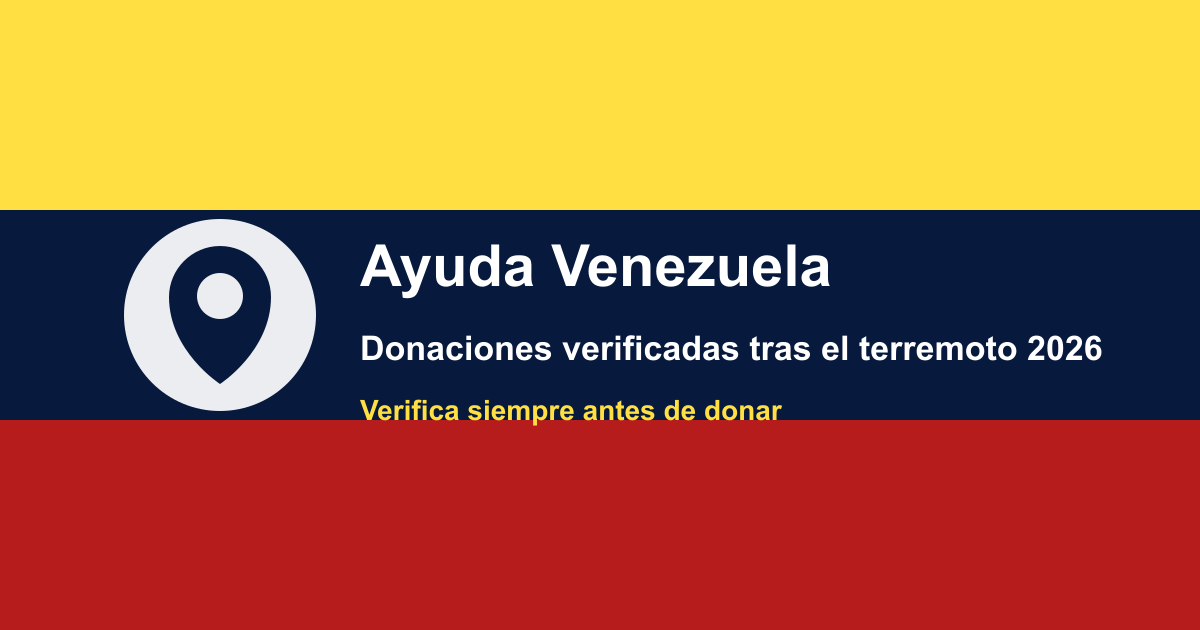
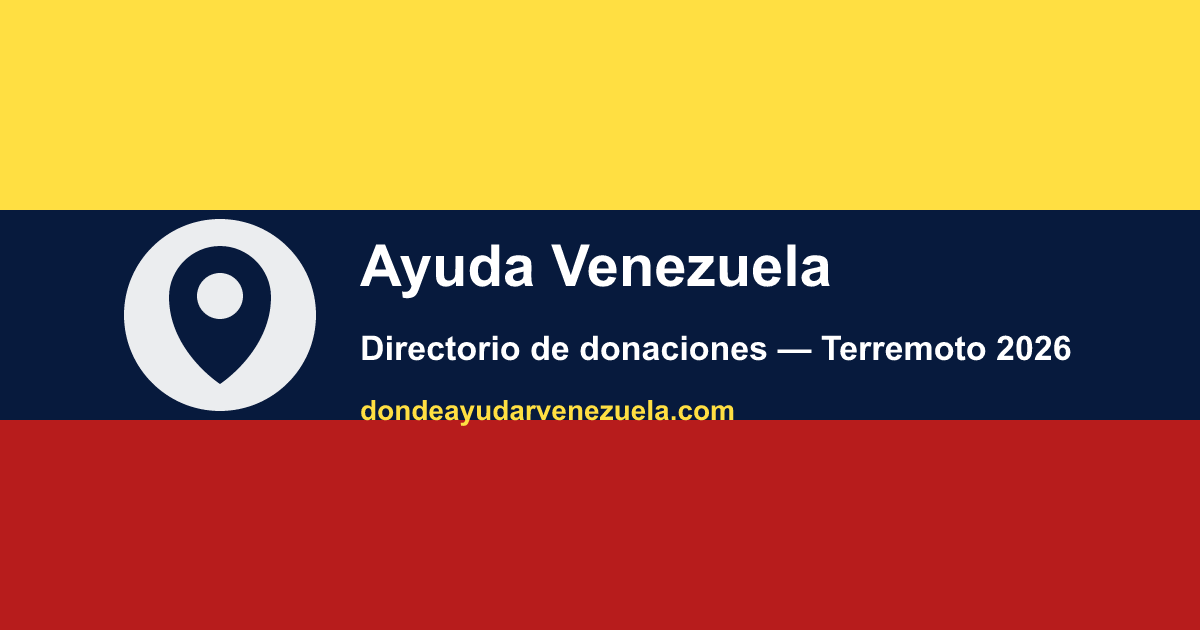
feat: tags de tipo/país, botón compartir en redes y og-image corregida
- CampaignCard muestra tags de tipo (Persona/Organización) y país junto a los contactos
- Botón "Compartir" por tarjeta con intents para WhatsApp, X, Threads, Facebook e Instagram
- X trunca título+info a 255 chars para respetar el límite de 280 (URL cuenta como 23)
- Facebook copia el texto al portapapeles antes de abrir el sharer (la plataforma no acepta texto via URL)
- Instagram copia el texto y lanza el deep link instagram:// para pegar en una story
- og-image: reemplaza "Donaciones verificadas" por "Directorio de donaciones — Terremoto 2026"
- og:image versión ?v=2 para forzar re-fetch en WhatsApp/iMessage tras el cambio de imagen

Changed region(s): [[0.3083, 0.5127, 0.925, 0.573], [0.2775, 0.6333, 0.6475, 0.6937]]

diff --git a/src/components/CampaignCard.tsx b/src/components/CampaignCard.tsx
@@ -1,4 +1,5 @@
 import { useState } from 'react'
+import { PAISES } from '../lib/venezuela'
 import type { Publicacion } from '../types'
 
 function contactUrl(tipo: string, valor: string): string {
@@ -26,10 +27,31 @@ const contactName: Record<string, string> = {
   twitter_x: 'X',
 }
 
+const tipoLabel: Record<string, string> = {
+  persona: 'Persona',
+  organizacion: 'Organización',
+}
+
+const tipoStyle: Record<string, string> = {
+  persona: 'bg-blue-50 text-blue-800 border-blue-200',
+  organizacion: 'bg-violet-50 text-violet-800 border-violet-200',
+}
+
+const SHARE_PLATFORMS = [
+  { id: 'whatsapp', label: 'WhatsApp', style: 'bg-[#25D366] hover:bg-[#1ebe5d] text-white' },
+  { id: 'twitter', label: 'X', style: 'bg-black hover:bg-neutral-800 text-white' },
+  { id: 'threads', label: 'Threads', style: 'bg-neutral-800 hover:bg-neutral-700 text-white' },
+  { id: 'facebook', label: 'Facebook', style: 'bg-[#1877F2] hover:bg-blue-700 text-white' },
+  { id: 'instagram', label: 'Instagram', style: 'bg-pink-500 hover:bg-pink-600 text-white' },
+]
+
 const INFO_LIMIT = 280
 
 export default function CampaignCard({ pub }: { pub: Publicacion }) {
   const [expanded, setExpanded] = useState(false)
+  const [shareOpen, setShareOpen] = useState(false)
+  const [copiedPlatform, setCopiedPlatform] = useState<string | null>(null)
+
   const isLong = pub.info.length > INFO_LIMIT
   const displayInfo = isLong && !expanded ? pub.info.slice(0, INFO_LIMIT).trimEnd() + '…' : pub.info
 
@@ -38,6 +60,45 @@ export default function CampaignCard({ pub }: { pub: Publicacion }) {
     month: 'short',
     year: 'numeric',
   })
+
+  const shareText = `${pub.titulo}\n\n${pub.info}\n\ndondeayudarvenezuela.com`
+
+  function markCopied(platform: string) {
+    setCopiedPlatform(platform)
+    setTimeout(() => setCopiedPlatform(null), 3000)
+  }
+
+  function handleShare(platform: string) {
+    const enc = encodeURIComponent
+    if (platform === 'whatsapp') {
+      window.open(`https://wa.me/?text=${enc(shareText)}`, '_blank', 'noreferrer')
+    } else if (platform === 'twitter') {
+      // Twitter siempre cuenta URLs como 23 chars; reservamos 2 para \n\n antes de la URL
+      const TWITTER_URL = 'https://dondeayudarvenezuela.com'
+      const bodyLimit = 280 - 23 - 2
+      const full = `${pub.titulo}\n\n${pub.info}`
+      const body = full.length <= bodyLimit ? full : full.slice(0, bodyLimit - 1) + '…'
+      window.open(`https://x.com/intent/post?text=${enc(body + '\n\n' + TWITTER_URL)}`, '_blank', 'noreferrer')
+    } else if (platform === 'threads') {
+      window.open(`https://threads.net/intent/post?text=${enc(shareText)}`, '_blank', 'noreferrer')
+    } else if (platform === 'facebook') {
+      // Facebook no acepta texto via URL — copiamos primero para que el usuario lo pegue
+      navigator.clipboard.writeText(shareText).then(() => {
+        markCopied('facebook')
+        window.open(
+          `https://www.facebook.com/sharer/sharer.php?u=${enc('https://dondeayudarvenezuela.com')}`,
+          '_blank',
+          'noreferrer',
+        )
+      })
+    } else if (platform === 'instagram') {
+      // Copiamos el texto y abrimos la app para que el usuario pegue en una story
+      navigator.clipboard.writeText(shareText).then(() => {
+        markCopied('instagram')
+        window.location.href = 'instagram://'
+      })
+    }
+  }
 
   return (
     <article className="rounded-lg border border-slate-200 bg-white p-5 shadow-sm">
@@ -54,24 +115,58 @@ export default function CampaignCard({ pub }: { pub: Publicacion }) {
         </button>
       ) : null}
 
-      {pub.contactos.length > 0 ? (
-        <div className="mt-4 flex flex-wrap gap-2">
-          {pub.contactos.map((c) => (
-            <a
-              key={c.id}
-              href={contactUrl(c.tipo, c.valor)}
-              target="_blank"
-              rel="noreferrer"
-              className={`inline-flex items-center gap-1.5 rounded-md border px-3 py-1.5 text-sm font-semibold ${contactStyle[c.tipo] ?? ''}`}
+      <div className="mt-4 flex flex-wrap gap-2">
+        <span
+          className={`inline-flex items-center rounded-md border px-3 py-1.5 text-sm font-semibold ${tipoStyle[pub.tipo] ?? ''}`}
+        >
+          {tipoLabel[pub.tipo] ?? pub.tipo}
+        </span>
+        {pub.pais ? (
+          <span className="inline-flex items-center rounded-md border border-amber-200 bg-amber-50 px-3 py-1.5 text-sm font-semibold text-amber-800">
+            {PAISES.find((p) => p.code === pub.pais)?.name ?? pub.pais}
+          </span>
+        ) : null}
+        {pub.contactos.map((c) => (
+          <a
+            key={c.id}
+            href={contactUrl(c.tipo, c.valor)}
+            target="_blank"
+            rel="noreferrer"
+            className={`inline-flex items-center gap-1.5 rounded-md border px-3 py-1.5 text-sm font-semibold ${contactStyle[c.tipo] ?? ''}`}
+          >
+            <span className="text-xs font-black">{contactName[c.tipo] ?? c.tipo}</span>
+            {contactLabel(c.tipo, c.valor)}
+          </a>
+        ))}
+      </div>
+
+      {shareOpen ? (
+        <div className="mt-3 flex flex-wrap gap-2">
+          {SHARE_PLATFORMS.map((p) => (
+            <button
+              key={p.id}
+              onClick={() => handleShare(p.id)}
+              className={`rounded-md px-3 py-1.5 text-sm font-semibold transition-colors ${p.style}`}
             >
-              <span className="text-xs font-black">{contactName[c.tipo] ?? c.tipo}</span>
-              {contactLabel(c.tipo, c.valor)}
-            </a>
+              {p.id === 'instagram' && copiedPlatform === 'instagram'
+                ? '¡Copiado! Pega en story'
+                : p.id === 'facebook' && copiedPlatform === 'facebook'
+                  ? '¡Texto copiado!'
+                  : p.label}
+            </button>
           ))}
         </div>
       ) : null}
 
-      <p className="mt-3 text-xs text-slate-400">{date}</p>
+      <div className="mt-3 flex items-center justify-between">
+        <p className="text-xs text-slate-400">{date}</p>
+        <button
+          onClick={() => setShareOpen((s) => !s)}
+          className="text-xs font-semibold text-slate-400 hover:text-slate-600"
+        >
+          {shareOpen ? 'Cerrar' : 'Compartir'}
+        </button>
+      </div>
     </article>
   )
 }

diff --git a/index.html b/index.html
@@ -20,7 +20,7 @@
       property="og:description"
       content="Personas y organizaciones recibiendo donaciones. Desde Venezuela, Chile, España, USA y más. Publica tu campaña en un clic."
     />
-    <meta property="og:image" content="https://dondeayudarvenezuela.com/og-image.png" />
+    <meta property="og:image" content="https://dondeayudarvenezuela.com/og-image.png?v=2" />
     <meta property="og:url" content="https://dondeayudarvenezuela.com" />
     <meta name="twitter:card" content="summary_large_image" />
     <meta name="twitter:title" content="¿Dónde ayudar a Venezuela? Directorio de donaciones — Terremoto 2026" />
@@ -28,7 +28,7 @@
       name="twitter:description"
       content="Personas y organizaciones recibiendo donaciones. Desde Venezuela, Chile, España, USA y más. Publica tu campaña en un clic."
     />
-    <meta name="twitter:image" content="https://dondeayudarvenezuela.com/og-image.png" />
+    <meta name="twitter:image" content="https://dondeayudarvenezuela.com/og-image.png?v=2" />
   </head>
   <body>
     <div id="root"></div>